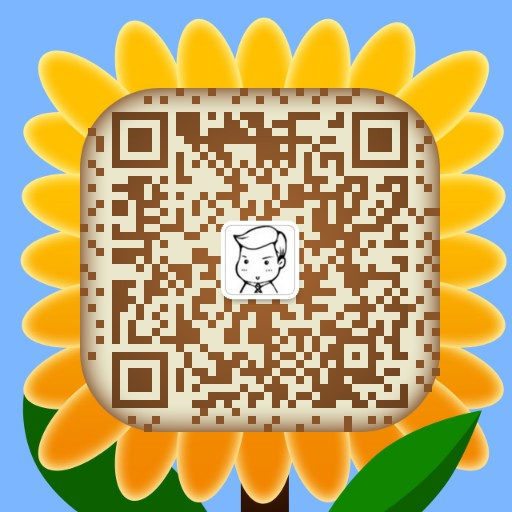
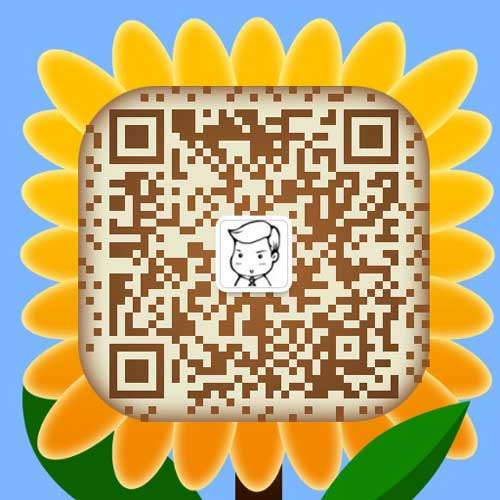
fix：一些新的样式和更小的图片二维码资源

diff --git a/style.css b/style.css
@@ -2,9 +2,14 @@
   --primary: #16A085;
 }
 
+::selection {
+  background: var(--primary);
+  color     : #fff;
+}
+
 * {
-  margin: 0;
-  padding: 0;
+  margin    : 0;
+  padding   : 0;
   box-sizing: border-box;
 }
 
@@ -14,7 +19,6 @@ html {
 
 body {
   background: #f8f8f8;
-  user-select: none;
 }
 
 div {
@@ -38,63 +42,63 @@ p {
   line-height: 1.8;
 }
 
-/* li::before {
-  content: "\02022";
-  color: gray;
-  position: relative;
-  left: 0px;
-  bottom: 0px;
-} */
-
 .container {
-  position: relative;
-  z-index: 1;
-  display: flex;
-  width: 960px;
-  margin: 30px auto;
+  position  : relative;
+  z-index   : 1;
+  display   : flex;
+  width     : 960px;
+  margin    : 30px auto;
   box-shadow: 2px 2px 10px #ddd;
 }
 
 .left-layout {
-  width: 320px;
-  padding: 25px 25px 0 25px;
+  width     : 320px;
+  padding   : 25px 25px 0 25px;
   background: var(--primary);
-  color: #fff;
-  opacity: 0.9;
+  color     : #fff;
+  opacity   : 0.9;
 }
 
 .right-layout {
   background: #fff;
-  flex: 1;
-  padding: 25px 35px 0 40px;
+  flex      : 1;
+  padding   : 25px 35px 0 40px;
 }
 
 .avatar-wrap {
-  margin: 0 auto;
-  width: 150px;
-  border: 3px solid #118871;
-  height: 150px;
-  position: relative;
+  display      : block;
+  margin       : 0 auto;
+  width        : 150px;
+  border       : 3px solid #118871;
+  height       : 150px;
+  position     : relative;
   border-radius: 50%;
-  overflow: hidden;
+  overflow     : hidden;
+  box-shadow   : 0 0 20px #005c4a;
+  user-select  : none;
 }
 
 .avatar {
-  position: absolute;
-  display: block;
-  margin-top: -22px;
+  position   : absolute;
+  display    : block;
+  margin-top : -22px;
   margin-left: 0px;
-  width: 100%;
+  width      : 100%;
 }
 
 .me {
-  margin-top: 15px;
+  margin-top   : 15px;
   margin-bottom: 25px;
-  text-align: center;
+  text-align   : center;
 }
 
 .me>div {
-  font-size: 2.4rem;
+  font-size : 2.4rem;
+  transition: all .3s;
+}
+
+.me>div:hover {
+  text-shadow: 0 0 10px #fff;
 }
 
 .me>div:first-child {
@@ -106,9 +110,9 @@ p {
 }
 
 .block-title {
-  position: relative;
-  font-size: 1.8rem;
-  margin-bottom: 15px;
+  position      : relative;
+  font-size     : 1.8rem;
+  margin-bottom : 15px;
   padding-bottom: 8px;
 }
 
@@ -122,22 +126,22 @@ p {
 
 .left-layout .block-title {
   border-bottom: 2px solid #fff;
-  color: #fff;
+  color        : #fff;
 }
 
 .right-layout .block-title {
   border-bottom: 2px solid #16A085;
-  color: #16A085;
+  color        : #16A085;
 }
 
 .label {
-  display: flex;
+  display      : flex;
   margin-bottom: 8px;
 }
 
 .label>div {
   flex-shrink: 1;
-  flex-basis: 0%;
+  flex-basis : 0%;
 }
 
 .label-label {
@@ -172,13 +176,13 @@ p {
 
   /* tablets and desktop */
   .container {
-    width: 100%;
-    margin: 0;
+    width         : 100%;
+    margin        : 0;
     flex-direction: column;
   }
 
   .left-layout {
-    width: 100%;
+    width  : 100%;
     padding: 25px 15px 0 15px;
   }
 
@@ -192,22 +196,22 @@ p {
 }
 
 .fixed-tool {
-  display: block;
-  position: fixed;
-  right: 10px;
-  z-index: 1000;
-  background: var(--primary);
-  width: 50px;
-  height: 50px;
-  display: flex;
+  display        : block;
+  position       : fixed;
+  right          : 10px;
+  z-index        : 1000;
+  background     : var(--primary);
+  width          : 50px;
+  height         : 50px;
+  display        : flex;
   justify-content: center;
-  align-items: center;
-  border-radius: 50%;
-  color: #fff;
-  cursor: pointer;
-  box-shadow: 1px 1px 10px #ddd;
-  opacity: .8;
-  transition: all .3s;
+  align-items    : center;
+  border-radius  : 50%;
+  color          : #fff;
+  cursor         : pointer;
+  box-shadow     : 1px 1px 10px #ddd;
+  opacity        : .8;
+  transition     : all .3s;
 }
 
 .fixed-tool:hover {
@@ -220,10 +224,10 @@ p {
 
 .go-top {
   position: fixed;
-  bottom: 100px;
+  bottom  : 100px;
 }
 
 .down-pdf {
   position: fixed;
-  bottom: 30px;
+  bottom  : 30px;
 }

diff --git a/index.html b/index.html
@@ -16,15 +16,15 @@
 
     <div class="left-layout">
       <!-- <div> -->
-      <div class="avatar-wrap">
+      <a class="avatar-wrap">
         <img class="avatar" src="./me.jpg" alt="avatar">
-      </div>
+      </a>
 
       <!-- <div class="me">彭超群 · web前端开发工程师</div> -->
 
       <div class="me">
-        <div>彭超群</div>
-        <div>web前端开发工程师</div>
+        <div class="name">彭超群</div>
+        <div class="position">web前端开发工程师</div>
       </div>
 
       <!-- <div class="me">
@@ -446,18 +446,18 @@
       document.body.scrollTop = document.documentElement.scrollTop = 0
     }
 
-    var o = new KeClickEffect({
-      hoverStrArray:[
-        'HTML5',
-        'CSS3',
-        'JavaScript',
-        'Angular',
-        'Vue',
-        'React',
-        'Node.js',
-        'JQuery'
-      ]
-    });
+    // var o = new KeClickEffect({
+    //   hoverStrArray:[
+    //     'HTML5',
+    //     'CSS3',
+    //     'JavaScript',
+    //     'Angular',
+    //     'Vue',
+    //     'React',
+    //     'Node.js',
+    //     'JQuery'
+    //   ]
+    // });
   </script>
 
 </body>
